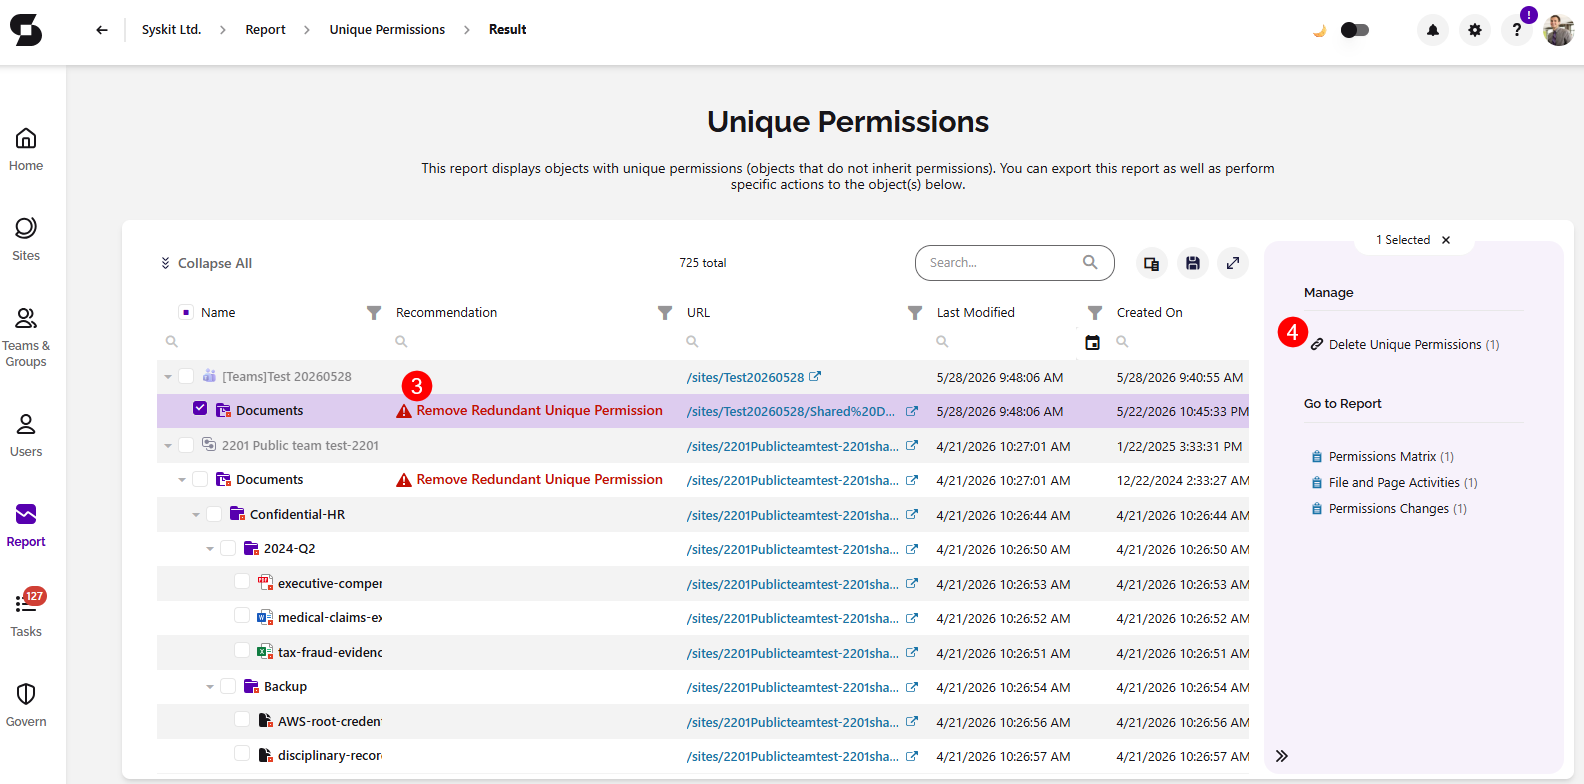
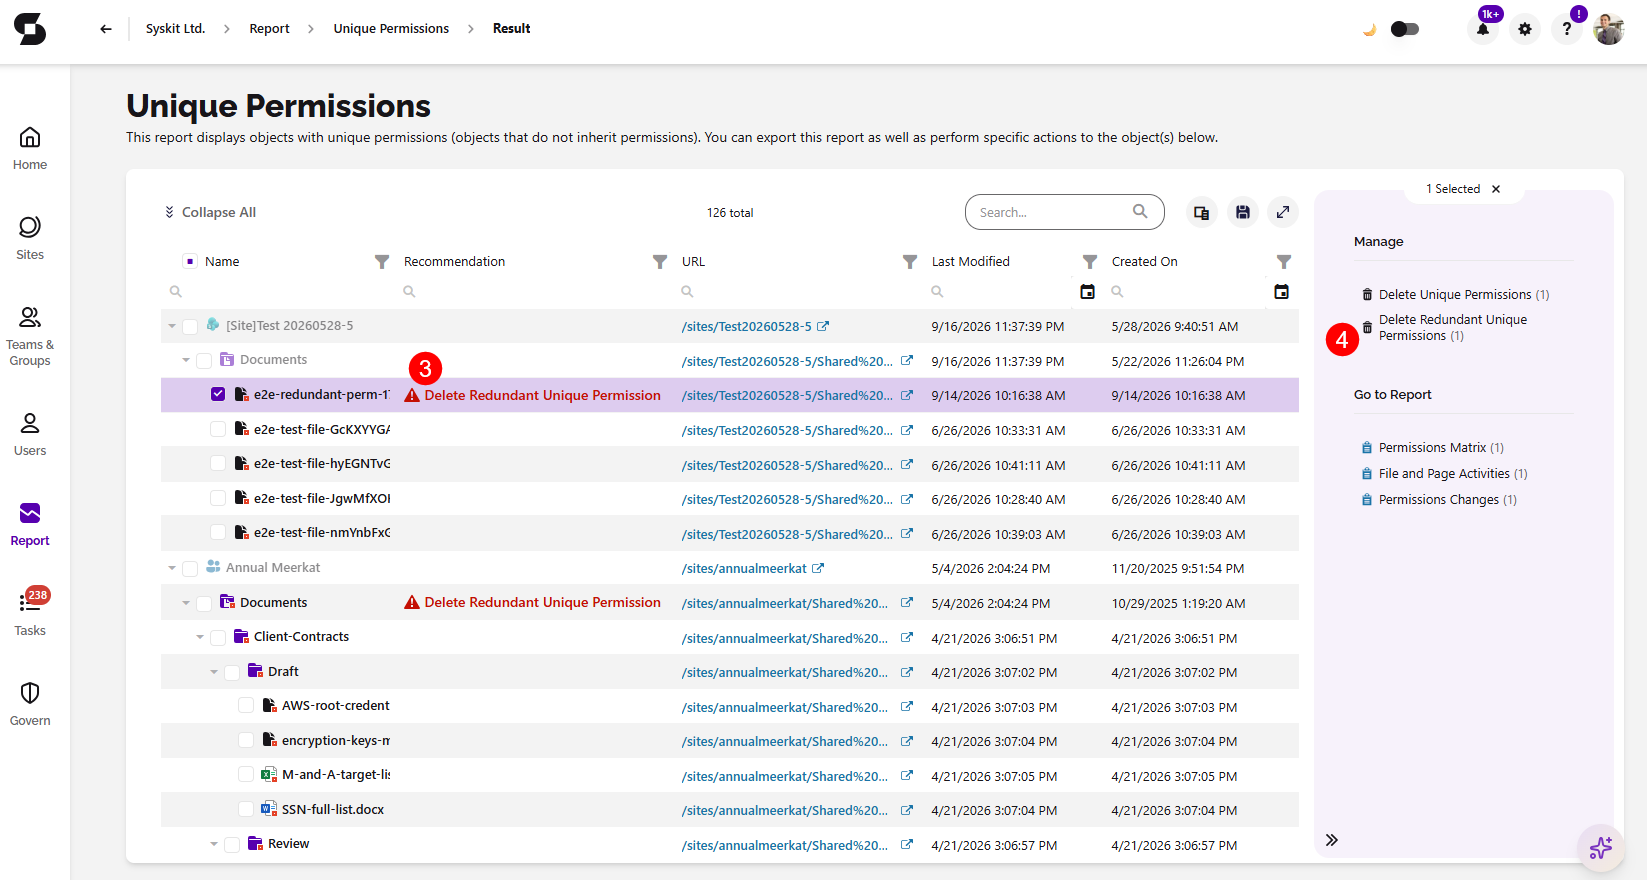
manual cleanup updates

diff --git a/docs/microsoft365-inventory/cleanup-opportunities.md b/docs/microsoft365-inventory/cleanup-opportunities.md
@@ -4,7 +4,7 @@ description: The Cleanup Opportunities tile on the Syskit Point Dashboard shows 
 
 # Cleanup Opportunities
 
-The **Cleanup Opportunities** tile on the Syskit Point Dashboard shows any permission cleanup opportunities such as, redundant unique permissions from expired links, access that differs from your current sharing policies, and files with permissions that haven't been used in a long time.
+The **Cleanup Opportunities** tile on the Syskit Point Dashboard shows any permission cleanup opportunities such as redundant unique permissions from expired links, access that differs from your current sharing policies, and files with permissions that haven't been used in a long time.
 
 The tile gives you a single place to see how many of these issues exist in your tenant and lets you take action on them directly, without having to search through reports.
 
@@ -12,7 +12,7 @@ The Cleanup Opportunities tile shows the state for four categories:
 
 * **[Redundant Unique Permissions](#redundant-unique-permissions) (1)** - these are items where unique permissions match the parent so removing them simplifies your structure without changing anyone’s access.
 * **[Leftover Anyone Links](#leftover-anyone-links) (2)** - these are anyone links that now aren't aligned with your external sharing policy because your external sharing settings have since become more restrictive.
-* **[Leftover External Users](#leftover-external-users) (3)** - these are external users whose access now aren't in compliance with your external sharing policy because your settings became more restrictive.
+* **[Leftover External Users](#leftover-external-users) (3)** - these are external users whose access is no longer in compliance with your external sharing policy because your settings became more restrictive.
 * **[Inactive Unique Permissions](#inactive-unique-permissions) (4)** - these are files with unique permissions that haven’t been accessed or modified within the defined inactivity period.
 
 ![Cleanup Opportunities tile](../../static/img/cleanup-opportunities-tile.png)
@@ -21,11 +21,11 @@ Clicking any of the counts in the tile opens the relevant report, where you can 
 
 ## Redundant Unique Permissions
 
-**After sharing links expire, get deleted, or after ad-hoc access is removed, unique permissions are often left behind even when they're no longer needed, making them redundant. This means that redundant unique permissions happen with items where unique permissions match that of its parent.** Over time, they accumulate silently: permission reviews become harder to complete, SharePoint performance degrades on heavily affected sites, and admins lose a clear picture of who actually has access. These redundant unique permissions can be safely removed to simplify your structure without changing anyone's access.
+**After sharing links expire, get deleted, or after ad-hoc access is removed, unique permissions are often left behind even when they're no longer needed, making them redundant. This means that redundant unique permissions happen with items where unique permissions match those of their parent.** Over time, they accumulate silently: permission reviews become harder to complete, SharePoint performance degrades on heavily affected sites, and admins lose a clear picture of who actually has access. These redundant unique permissions can be safely removed to simplify your structure without changing anyone's access.
 
 On the dashboard tile, you'll see the number of redundant unique permissions ready to be cleaned up, **click Set up Automation** to start.
 
-After selecting Set Up Automation, the **information dialog** opens, providing more details on Redundant Unique Permissions and leaves you with two options:
+After selecting Set Up Automation, the **information dialog** opens, providing more details on Redundant Unique Permissions and leaving you with two options:
 
 * **Turning on the Automated cleanup toggle (1)** lets Syskit Point clean up redundant unique permissions for you automatically
   * The Automated Cleanup toggle is turned off by default
@@ -33,15 +33,16 @@ After selecting Set Up Automation, the **information dialog** opens, providing m
   * Every object the automation cleans up is stored in the action history log
 
 * **Clicking Resolve Manually (2)** opens the [**Unique Permissions** report](../reporting/access-reports.md#unique-permissions-report)
-  * After generating the report, you'll see the **recommendation to Remove Redundant Unique Permissions (3)**, where applicable
-  * Selecting that object lets you complete the **Delete Unique Permissions action (4)**
+  * After generating the report, you'll see the **Remove Redundant Unique Permissions recommendation (3)** next to affected objects, where applicable 
+    * Optionally, you can use the filter next to the recommendations column to search for Redundant Unique Permissions recommendations
+  * Selecting that object lets you complete the **Delete Redundant Unique Permissions action (4)**
 
 * **Clicking View Cleanup Insights (3)** opens the [**Cleanup Opportunities Insights** report](#cleanup-opportunities-insights) on the Security & Compliance section of the Govern screen
 
 
-:::info
+:::warning
 
-**Please note:** When using multiselect, **be mindful that parent nodes in the tree may have unique permissions without the Redundant Unique Permissions recommendation**. Selecting them will delete their unique permissions even if those are still needed.
+**Please note:** Always use the **Delete Redundant Unique Permissions** action, which removes only redundant unique permissions. Do **not** use the **Delete Unique Permissions** action as it also removes unique permissions from parent nodes that may still be needed.
 
 :::
 
@@ -56,12 +57,18 @@ After selecting Set Up Automation, the **information dialog** opens, providing m
 
 On the dashboard tile, you'll see the number of inactive unique permissions ready to be cleaned up, **click Resolve Manually** to start.
 
-After selecting Resolve Manually, the **information dialog** opens, providing more details on Inactive Unique Permissions and leaves you with two options:
+After selecting Resolve Manually, the **information dialog** opens, providing more details on Inactive Unique Permissions and leaving you with two options:
 
 * **Clicking the Request Automation** button lets you send us a request for this feature to be automated, which helps us prioritize the improvements you're requesting
 * **Clicking Resolve Manually** opens the [**Permissions Matrix** report](../reporting/access-reports.md#permissions-matrix-report)
-  * After generating the report, use the **filter next to the recommendations column (1)** to search for **Delete Inactive Unique Permissions (2)**
-  * Selecting that object lets you complete the **Delete Unique Permissions (3)** actions
+  * After generating the report, you can optionally use the **filter next to the recommendations column (1)** to search for the **Delete Inactive Unique Permissions recommendation (2)**
+  * Selecting that object lets you complete the **Delete Inactive Unique Permissions action (3)**
+
+:::warning
+
+**Please note:** Always use the **Delete Inactive Unique Permissions** action, which removes only inactive unique permissions. Do **not** use the **Delete Unique Permissions** action as it also removes unique permissions from parent nodes that may still be needed.
+
+:::
 
 ![Cleanup Opportunities tile - Inactive Unique Permissions](../../static/img/cleanup-opportunities-tile-inactive.png)
 
@@ -72,7 +79,7 @@ After selecting Resolve Manually, the **information dialog** opens, providing mo
 
 On the dashboard tile, you'll see the number of leftover anyone links ready to be cleaned up, **click Set up Automation** to start.
 
-After selecting Set Up Automation, the **information dialog** opens, providing more details on Leftover Anyone Links and leaves you with two options:
+After selecting Set Up Automation, the **information dialog** opens, providing more details on Leftover Anyone Links and leaving you with two options:
 
 * **Turning on the Automated cleanup toggle (1)** lets Syskit Point remove leftover anyone links for you automatically
   * The Automated Cleanup toggle is turned off by default
@@ -97,7 +104,7 @@ After selecting Set Up Automation, the **information dialog** opens, providing m
 
 On the dashboard tile, you'll see the number of leftover external users ready to be cleaned up, **click Set up Automation** to start.
 
-After selecting Set Up Automation, the **information dialog** opens, providing more details on Leftover External Users and leaves you with two options:
+After selecting Set Up Automation, the **information dialog** opens, providing more details on Leftover External Users and leaving you with two options:
 
 * **Turning on the Automated cleanup toggle (1)** lets Syskit Point remove leftover external users for you automatically
   * The Automated Cleanup toggle is turned off by default
@@ -141,7 +148,7 @@ The following information is available:
 
 * The **Cleanup Trend section (2)**, which shows the amount of all-time cumulative cleaned items shown through a graph for automated items and manual items
 
-* The report for the current state of your Cleanup Opportiunities with the following columns included: 
+* The report for the current state of your Cleanup Opportunities with the following columns included: 
 
   * **Cleanup Opportunity (3)** - shows the name of the cleanup category
   * **Cleaned Items (4)** - shows the number of cleaned items so far
